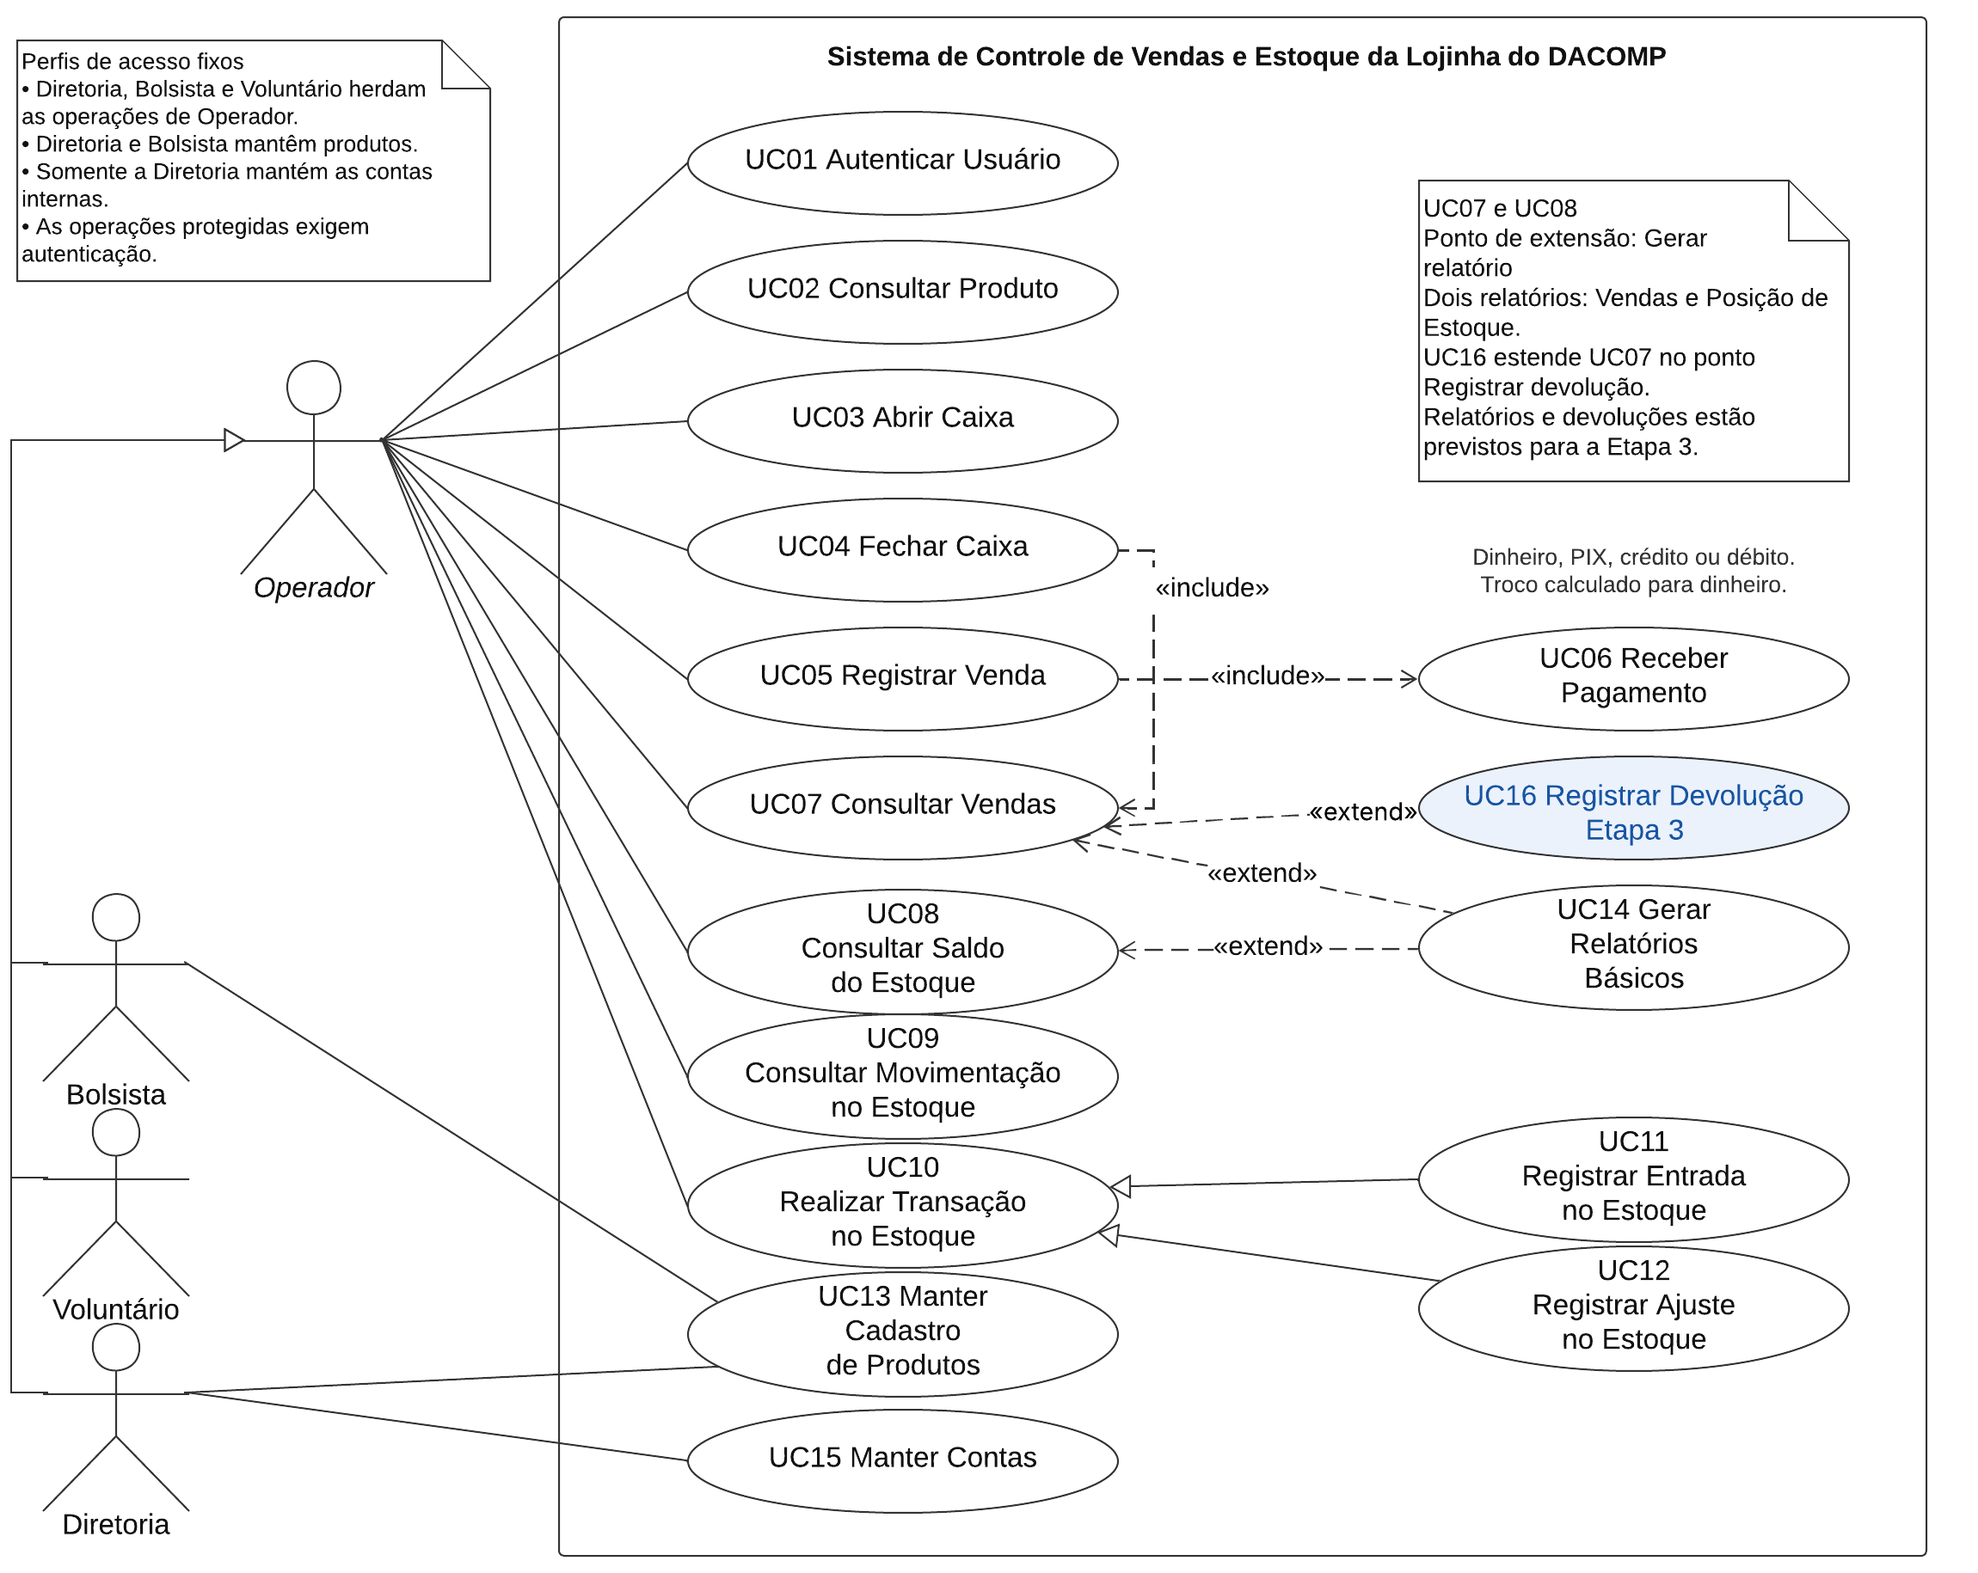
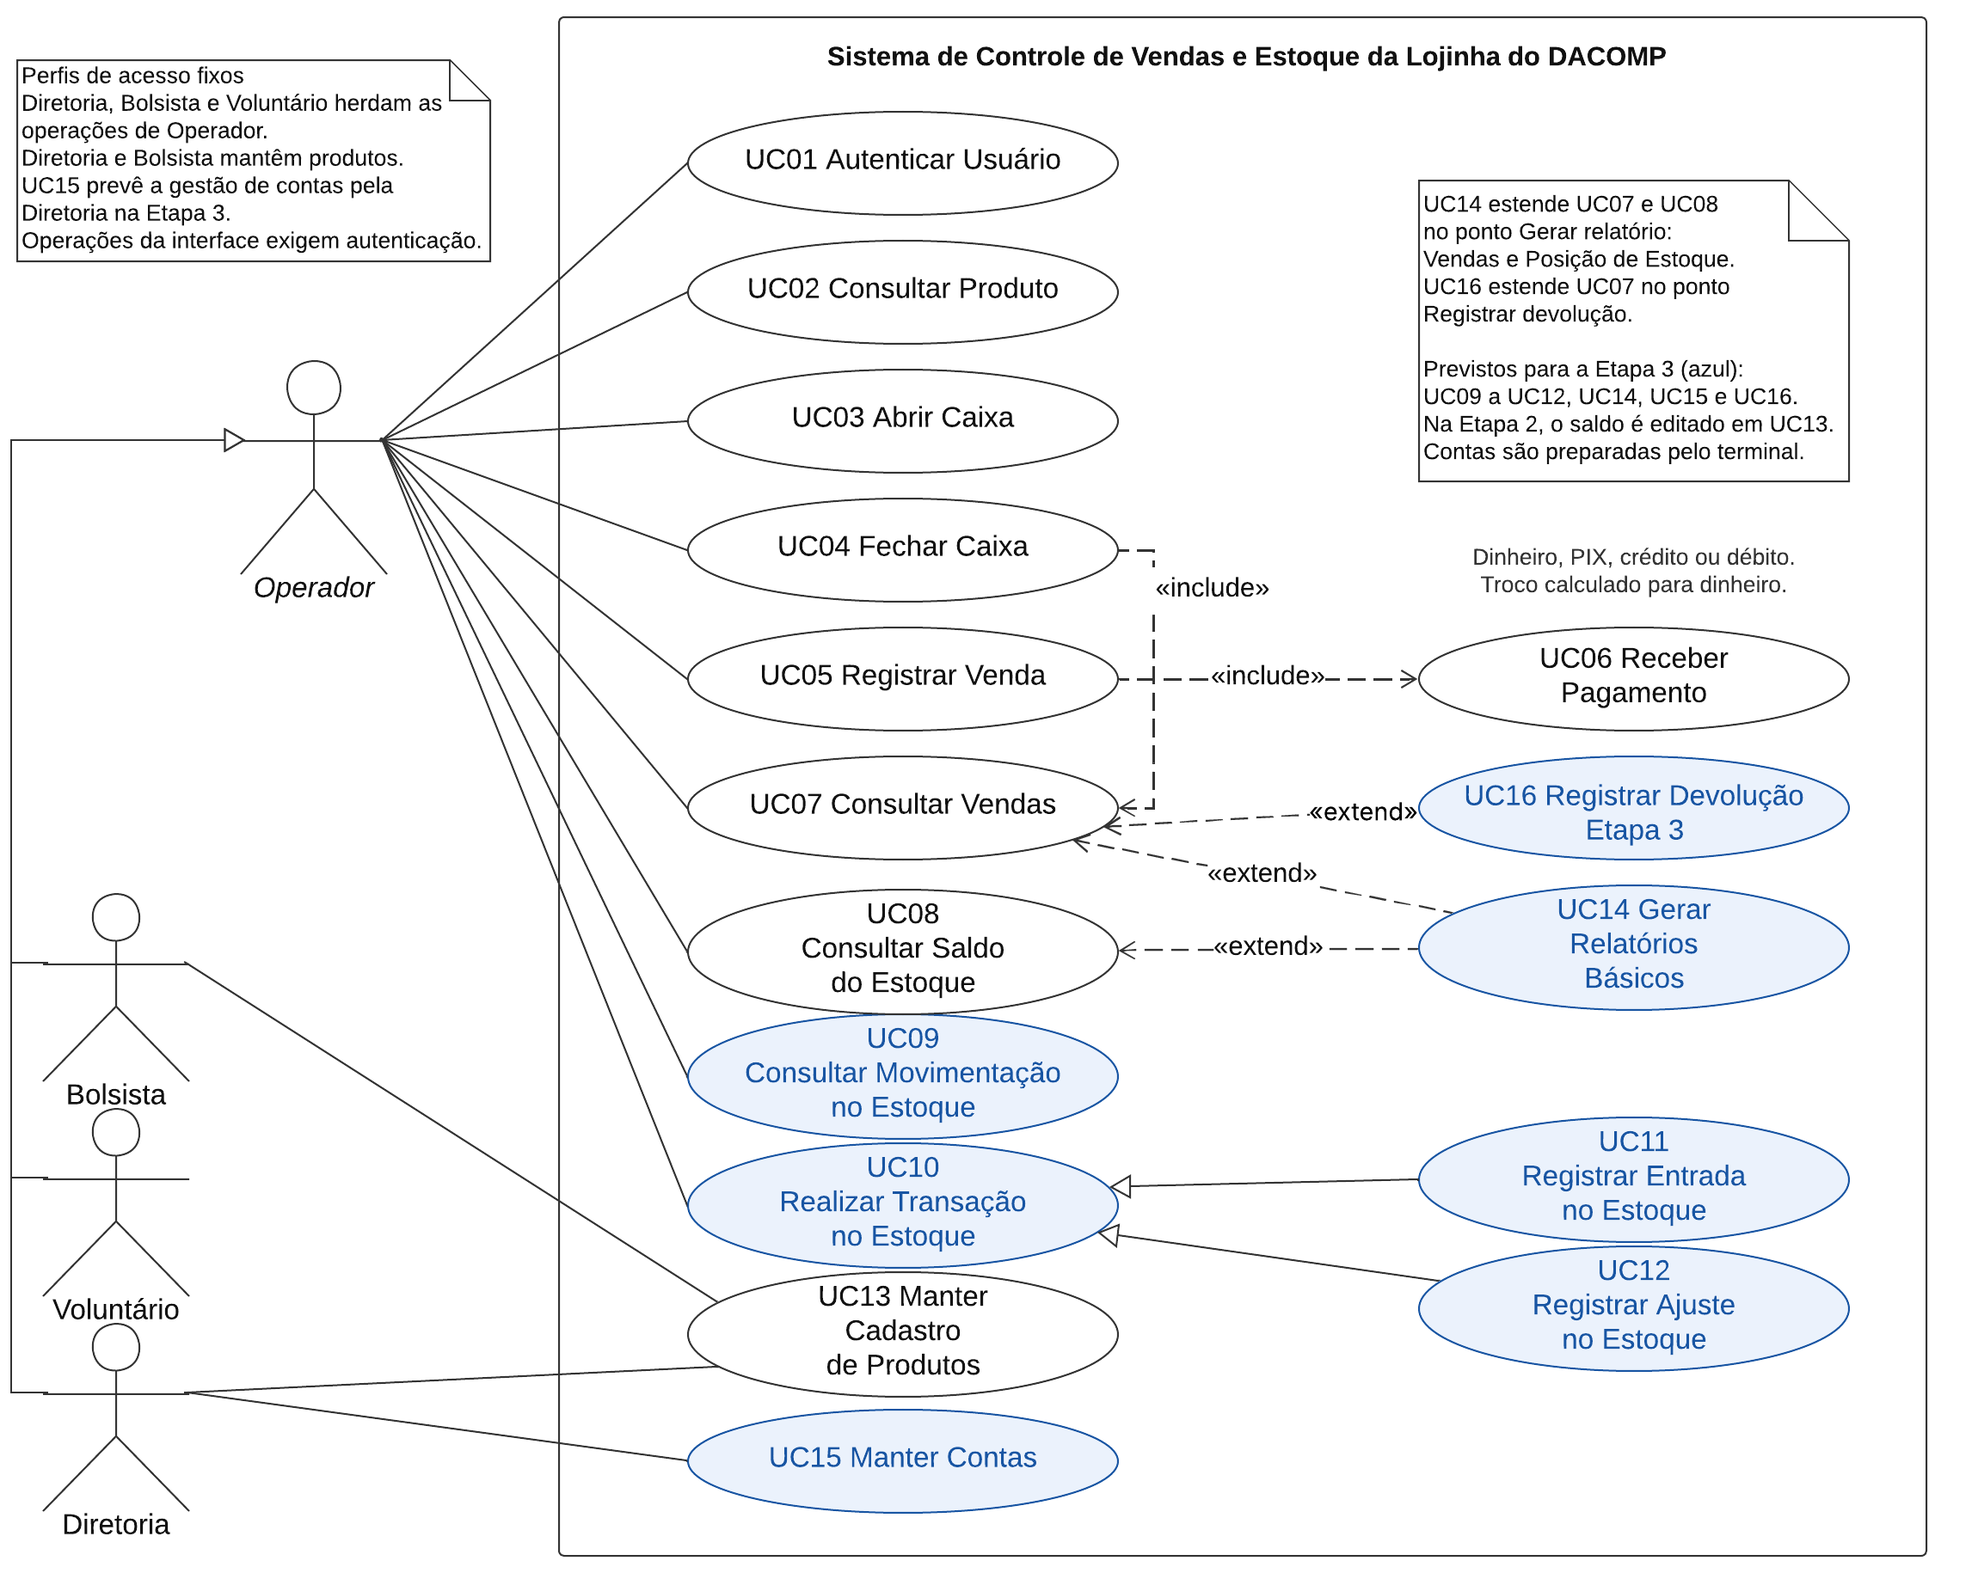
Alinha diagramas e roteiro ao recorte atual da Etapa 2

diff --git a/docs/arquitetura.md b/docs/arquitetura.md
@@ -8,35 +8,35 @@ Essa escolha atende ao tamanho do projeto e mantém a execução simples. A conc
 
 | Pacote | Responsabilidade | Dependências internas |
 | --- | --- | --- |
-| `contas` | Autenticação, contas internas, perfis fixos e controle de acesso | Não usa os outros pacotes do negócio |
+| `contas` | Autenticação, perfis fixos, controle de acesso e preparação de contas pelo terminal | Não usa os outros pacotes do negócio |
 | `catalogo` | Cadastro, pesquisa, detalhes e saldo dos produtos e serviços | `contas` |
-| `estoque` | Entradas, ajustes, baixas de venda e histórico de movimentações | `catalogo`, `contas` |
-| `vendas` | PDV, pagamento, abertura e fechamento de caixa e consultas de vendas | `catalogo`, `estoque`, `contas` |
-| `nucleo` | Página inicial, formatação, paginação e dados de demonstração | `catalogo`, `estoque`, `vendas`, `contas` |
-| `config` | Configurações, registro das rotas e composição da aplicação | Registra os cinco pacotes e define `contas.Usuario` como usuário do projeto |
+| `vendas` | PDV, pagamento, abertura e fechamento de caixa e consultas de vendas | `catalogo`, `contas` |
+| `nucleo` | Página inicial, formatação, paginação e dados de demonstração | `catalogo`, `vendas`, `contas` |
+| `config` | Configurações, registro das rotas e composição da aplicação | Registra os quatro pacotes da aplicação e define `contas.Usuario` como usuário do projeto |
 
 O [diagrama de pacotes](https://lucid.app/lucidchart/92abb5cb-ec36-47da-bed2-f6d2120cda91/edit) mostra essas dependências. As setas tracejadas saem do pacote que usa uma responsabilidade e apontam para o pacote usado. O arquivo editável de diagramas acompanha a entrega da Etapa 2.
 
 ## Camadas dentro dos pacotes
 
-Os arquivos `models.py` definem as entidades e seus vínculos no banco. Os arquivos `servicos.py` concentram as regras de negócio, como validar uma quantidade, concluir uma venda ou registrar uma movimentação. Os formulários validam as entradas, as views conduzem as ações e os templates apresentam o resultado no navegador.
+Nos pacotes de negócio, os arquivos `models.py` definem as entidades e seus vínculos no banco. Os arquivos `servicos.py` de catálogo e vendas concentram regras como consultar produtos, validar quantidades, baixar o saldo e concluir uma venda. Os formulários validam as entradas, as views conduzem as ações e os templates apresentam o resultado no navegador. `contas` reúne também os comandos de administração das contas; `nucleo` contém as utilidades compartilhadas.
 
-Nas vendas, `vendas.servicos` consulta o catálogo e chama `estoque.servicos` para registrar a baixa dos produtos físicos. O estoque bloqueia a atualização concorrente do produto durante a transação, verifica o saldo e registra os valores anterior e posterior da movimentação. Serviços cadastrados sem controle de estoque permanecem nos itens da venda, sem baixa de quantidade.
+Nas vendas, `vendas.servicos` consulta o catálogo e chama `catalogo.servicos.baixar_saldo`. Essa operação bloqueia a atualização concorrente do produto e verifica o saldo disponível. Venda, pagamento e redução das quantidades são gravados na mesma transação: se um item não tiver saldo, a conclusão inteira é desfeita. Serviços e itens preparados na hora cadastrados sem controle de estoque permanecem na venda, sem baixa de quantidade.
 
-As interfaces usam `contas` para identificar o operador e aplicar as permissões. Diretoria e Bolsistas mantêm o cadastro de produtos. Os três perfis fixos compartilham as operações de atendimento, caixa e estoque.
-Somente a Diretoria pode consultar, criar, editar e inativar as contas internas, atribuir os perfis fixos e redefinir senhas (UC15).
+As interfaces usam `contas` para identificar o operador e aplicar as permissões. Diretoria e Bolsistas mantêm os produtos e informam o saldo no cadastro. Os três perfis fixos consultam produtos e vendas, atendem no PDV e operam o caixa. A preparação de contas, perfis e senhas ocorre pela linha de comando de quem administra a instalação. UC15 descreve a futura interface da Diretoria, prevista para a Etapa 3.
 
 ## Tecnologias
 
 - Python é a linguagem do sistema.
 - Django oferece rotas, autenticação, formulários, templates e acesso ao banco pelo ORM.
-- PostgreSQL 17 armazena produtos, movimentações, vendas, pagamentos e caixas.
+- PostgreSQL 17 armazena produtos, usuários, vendas, pagamentos e caixas.
 - HTML e CSS compõem a interface acessada pelo navegador.
 - Docker Compose executa a aplicação e o banco no ambiente local.
 - pytest e pytest-django verificam os serviços, os fluxos de atendimento e as permissões.
 
 ## Recorte da Etapa 2
 
-Catálogo, estoque, vendas, pagamentos, caixa e manutenção de contas já têm implementação. O sistema registra dinheiro, PIX, crédito ou débito conforme a confirmação do operador, sem integração com bancos ou operadoras. UC14 prevê dois relatórios para a Etapa 3: Vendas e Posição de Estoque. As consultas em tela já funcionam.
+Autenticação, catálogo, consulta de saldo, vendas, pagamentos e caixa já têm implementação. O sistema registra dinheiro, PIX, crédito ou débito conforme a confirmação do operador, sem integração com bancos ou operadoras.
+
+O grupo retirou o pacote `estoque` e a interface de contas para simplificar a Etapa 2. O saldo é editado diretamente no cadastro, sem histórico de movimentações, e reduzido automaticamente nas vendas concluídas. UC09 a UC12 continuam no modelo para a Etapa 3. UC08 é atendido pelas consultas do catálogo. UC14 prevê somente dois relatórios: Vendas e Posição de Estoque, a partir de UC07 e UC08. A interface de UC15 também fica para a Etapa 3.
 
 UC16 Registrar Devolução está especificado como extensão opcional de UC07 Consultar Vendas e será implementado na Etapa 3. O modelo prevê o retorno de itens, o registro do estorno e a atualização conjunta do estoque e do caixa. Essas operações ainda não fazem parte do código. O cancelamento de uma venda em andamento, antes do recebimento, já está disponível.

diff --git a/docs/roteiro-apresentacao.md b/docs/roteiro-apresentacao.md
@@ -20,7 +20,7 @@ Abra http://localhost:8000 e entre como `bolsista`. Confira o caixa e o saldo an
 
 Use os slides 1 a 7 para apresentar o atendimento da lojinha, os três perfis fixos, as simplificações e a arquitetura. Explique que a aplicação é um monólito Django em camadas: as telas conduzem o atendimento, os serviços concentram as regras e os modelos mantêm os dados. O diagrama de pacotes mostra como essas responsabilidades se relacionam.
 
-Deixe claro que o pagamento é confirmado pelo operador, sem integração bancária. As consultas já funcionam; UC14 prevê os relatórios de Vendas e Posição de Estoque para a Etapa 3. UC16 Registrar Devolução está incluído no modelo, também para a Etapa 3, e ainda não está implementado. A demonstração deve mostrar apenas as funcionalidades disponíveis. Emissão fiscal, carteirinhas, empréstimos e os demais módulos do antigo mini-ERP ficaram fora do recorte.
+Deixe claro que o pagamento é confirmado pelo operador, sem integração bancária. Na Etapa 2, o saldo é informado diretamente no cadastro e reduzido nas vendas, sem entradas, ajustes ou histórico de movimentações. Contas e perfis são preparados pelo terminal. UC09 a UC12, a interface de UC15, os dois relatórios de UC14 (Vendas e Posição de Estoque) e UC16 Registrar Devolução estão modelados para a Etapa 3. A demonstração apresenta as funcionalidades disponíveis. Emissão fiscal, carteirinhas, empréstimos e os demais módulos do antigo mini-ERP ficaram fora do recorte.
 
 No slide 8, passe para o navegador. Como referência para o ensaio, reserve cerca de um terço do tempo para a explicação e dois terços para a demonstração. Ajuste a duração ao tempo definido pela professora.
 
@@ -28,10 +28,10 @@ No slide 8, passe para o navegador. Como referência para o ensaio, reserve cerc
 
 1. **Consultar e abrir o caixa — UC02, UC08 e UC03.** Em Produtos, escolha **Código interno** no campo **Pesquisar por**, pesquise `AGU-500` e confira o saldo. Na base recém-populada, a água custa R$ 3,00 e tem 36 unidades. Abra o caixa com R$ 50,00 em dinheiro. Mostre que o atendimento fica associado ao operador.
 2. **Registrar a venda e receber — UC05 e UC06.** No PDV, adicione duas águas e um café pequeno (`CAF-P`). Confira o total de R$ 8,50. Finalize em dinheiro, informe R$ 10,00 e confirme o recebimento. O resumo deve mostrar troco de R$ 1,50. Explique que o café está cadastrado sem controle de estoque.
-3. **Conferir e movimentar o estoque — UC09, UC10 e UC11.** Em Estoque, filtre pela água. A baixa da venda deve mostrar 36 → 34, com variação de -2 e identificação do responsável. Registre uma entrada de cinco águas, revise e confirme: o saldo passa de 34 para 39. Abra os detalhes da movimentação. Se o saldo inicial for outro, use o valor consultado e acompanhe as mesmas variações.
+3. **Conferir o saldo — UC02 e UC08.** Volte a Produtos, pesquise `AGU-500` pelo código interno e abra os detalhes. Se o saldo inicial era 36, ele deve ser 34 após a venda. A redução de duas unidades é automática. Não há uma tela de movimentações nesta etapa. Se o saldo inicial for outro, acompanhe a mesma redução de duas unidades.
 4. **Consultar vendas e fechar o caixa — UC07 e UC04.** Abra a consulta de vendas e os detalhes da venda realizada. No fechamento, confira os totais por forma de pagamento e o dinheiro esperado. Se esta foi a única venda do caixa, o esperado é R$ 58,50. Informe esse valor, revise e confirme. Mostre o caixa fechado.
 
-Se houver tempo, apresente um ajuste de contagem, com motivo (UC12), o bloqueio de um produto sem saldo ou a manutenção de contas (UC15), acessível somente à Diretoria. Esses exemplos são complementares e podem ficar para as perguntas.
+Se houver tempo, mostre o bloqueio de um produto sem saldo ou a edição de um produto por Diretoria ou Bolsista (UC13). Nessa tela, a quantidade disponível pode ser informada diretamente. O Voluntário consulta o catálogo e opera vendas e caixa, mas não altera os produtos. Esses exemplos são complementares e podem ficar para as perguntas.
 
 ## Conferência antes da aula
 
@@ -41,4 +41,4 @@ Se houver tempo, apresente um ajuste de contagem, com motivo (UC12), o bloqueio 
 - Abrir os slides e o sistema antes de começar a exposição.
 - Demonstrar o sistema ao vivo. O enunciado não permite substituir a demonstração por vídeo.
 
-Na revisão da Etapa 2, os 56 testes passaram com PostgreSQL 17 no Docker. A verificação do Django não apontou problemas e não há alterações de modelos sem migração. O roteiro completo também foi conferido no navegador, em uma base de demonstração separada: venda de R$ 8,50, troco de R$ 1,50, baixa de duas águas, reposição de cinco e fechamento com R$ 58,50, sem diferença. Antes da aula, ensaie na máquina da apresentação e confira os dados iniciais, pois repetir o roteiro altera o estoque e mantém o histórico de vendas.
+Na revisão da versão atual da Etapa 2, os 42 testes passaram com PostgreSQL 17 no Docker. A verificação do Django não apontou problemas e não há alterações de modelos sem migração. O roteiro foi conferido no navegador em uma base separada: venda de R$ 8,50, troco de R$ 1,50, redução de duas águas no catálogo e fechamento com R$ 58,50, sem diferença. Antes da aula, ensaie na máquina da apresentação e confira os dados iniciais, pois repetir o roteiro altera o saldo e mantém o histórico de vendas.

diff --git a/README.md b/README.md
@@ -47,7 +47,7 @@ Docker Desktop não está aberto.
 
 ### 3. Subir o sistema
 
-Na pasta do projeto (depois de `git clone https://github.com/gbtaffarel/trab_eng_soft.git`):
+Na pasta do projeto (depois de `git clone https://github.com/PedroGasparetto/sistema-dacomp.git`):
 
 ```bash
 docker compose up --build -d
@@ -122,7 +122,7 @@ Monólito Django em camadas, dividido em pacotes por subsistema. Cada pacote seg
 | Pacote     | Responsabilidade                                            | Casos de uso        |
 |------------|-------------------------------------------------------------|---------------------|
 | `contas`   | Autenticação e perfis fixos (Diretoria, Bolsista, Voluntário); contas criadas pela linha de comando | UC01 |
-| `catalogo` | Cadastro e pesquisa de produtos (categoria, unidade, custo, lucro e quantidade em estoque) | UC02, UC13 |
+| `catalogo` | Cadastro e pesquisa de produtos (categoria, unidade, custo, lucro e quantidade em estoque) e baixa automática nas vendas | UC02, UC08, UC13 |
 | `vendas`   | PDV, abertura e fechamento de caixa, pagamento e consulta de vendas | UC03, UC04, UC05, UC06, UC07 |
 | `nucleo`   | Página inicial, formatação, paginação e dados de demonstração | —                   |
 | `config`   | Configurações e rotas do projeto                              | —                   |
@@ -132,8 +132,11 @@ cadastro do produto e baixada automaticamente quando uma venda é concluída (`c
 Venda, pagamento e baixa de estoque são gravados em uma única transação (RNF01): se faltar saldo, nada é
 registrado. As listagens usam 10 registros por página.
 
-Simplificação desta etapa: as movimentações de estoque (entradas, ajustes e histórico) não foram
-implementadas; o saldo é mantido diretamente no cadastro.
+O [diagrama de pacotes e a descrição das camadas](docs/arquitetura.md) detalham essas responsabilidades.
+
+Simplificação desta etapa: as movimentações de estoque (entradas, ajustes e histórico) foram
+retiradas da implementação; o saldo é mantido diretamente no cadastro. UC08 corresponde à consulta
+de saldo nas listas e nos detalhes do catálogo, sem uma tela independente.
 
 ### PDV
 
@@ -147,4 +150,15 @@ finalização, escolha a forma de pagamento; em dinheiro, o sistema calcula o tr
 caixa confere as vendas por forma de pagamento e exige justificativa quando o valor contado difere do
 esperado.
 
-Próximo pacote previsto: `relatorios` (UC50).
+O modelo prevê para a Etapa 3 as movimentações e seu histórico (UC09 a UC12), a gestão de contas
+pela interface da Diretoria (UC15), os relatórios (UC14) e a devolução com estorno (UC16).
+UC14 contempla somente **Vendas** e **Posição de Estoque**, a partir das consultas UC07 e UC08.
+UC16 estende UC07 após a consulta dos detalhes da venda. A devolução permanece apenas no modelo,
+conforme o recorte da entrega. O cancelamento de uma venda em andamento já está disponível e ocorre
+antes do pagamento e da baixa do saldo.
+
+### Apresentação da Etapa 2
+
+O [roteiro da apresentação](docs/roteiro-apresentacao.md) descreve a preparação dos dados,
+a demonstração ao vivo e os resultados esperados. O [projeto editável dos diagramas](docs/diagramas/Diagramas_DACOMP.drawio)
+reúne os casos de uso e os pacotes em duas páginas e pode ser aberto no diagrams.net.
